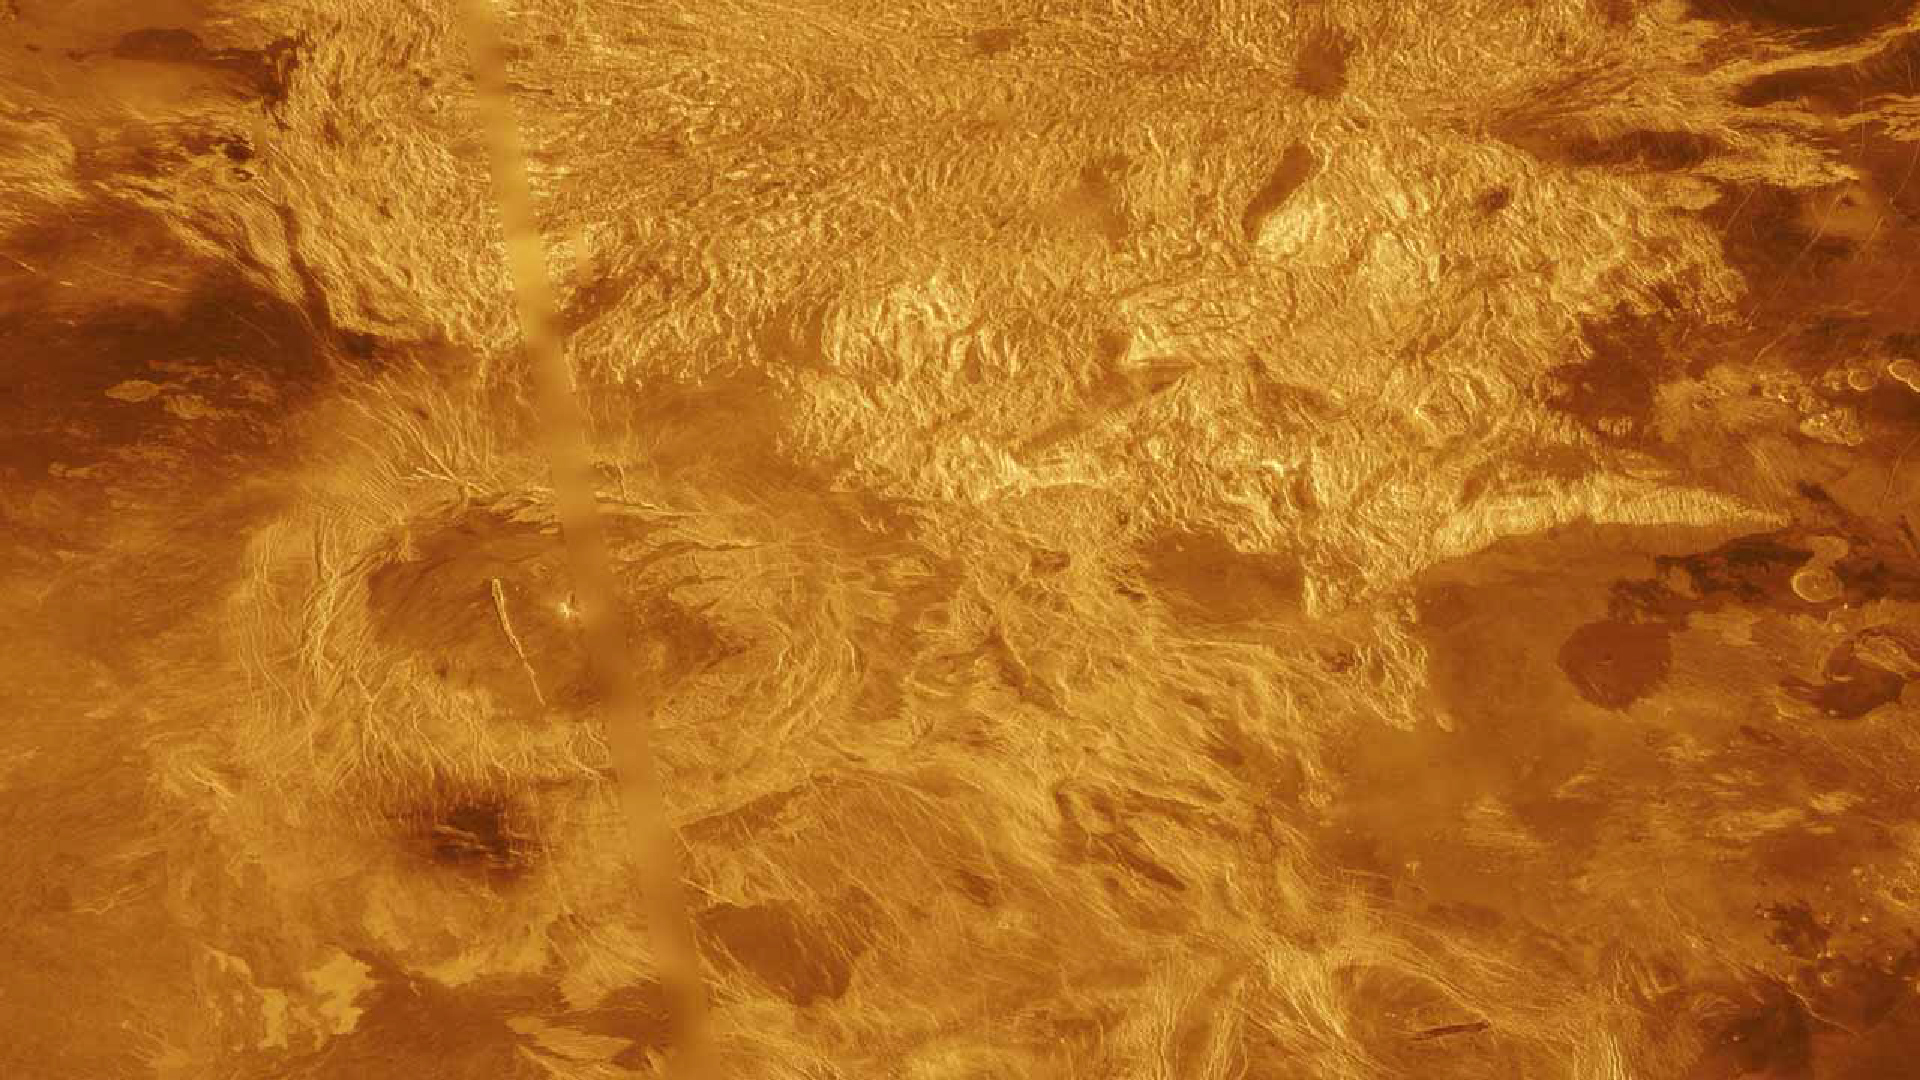
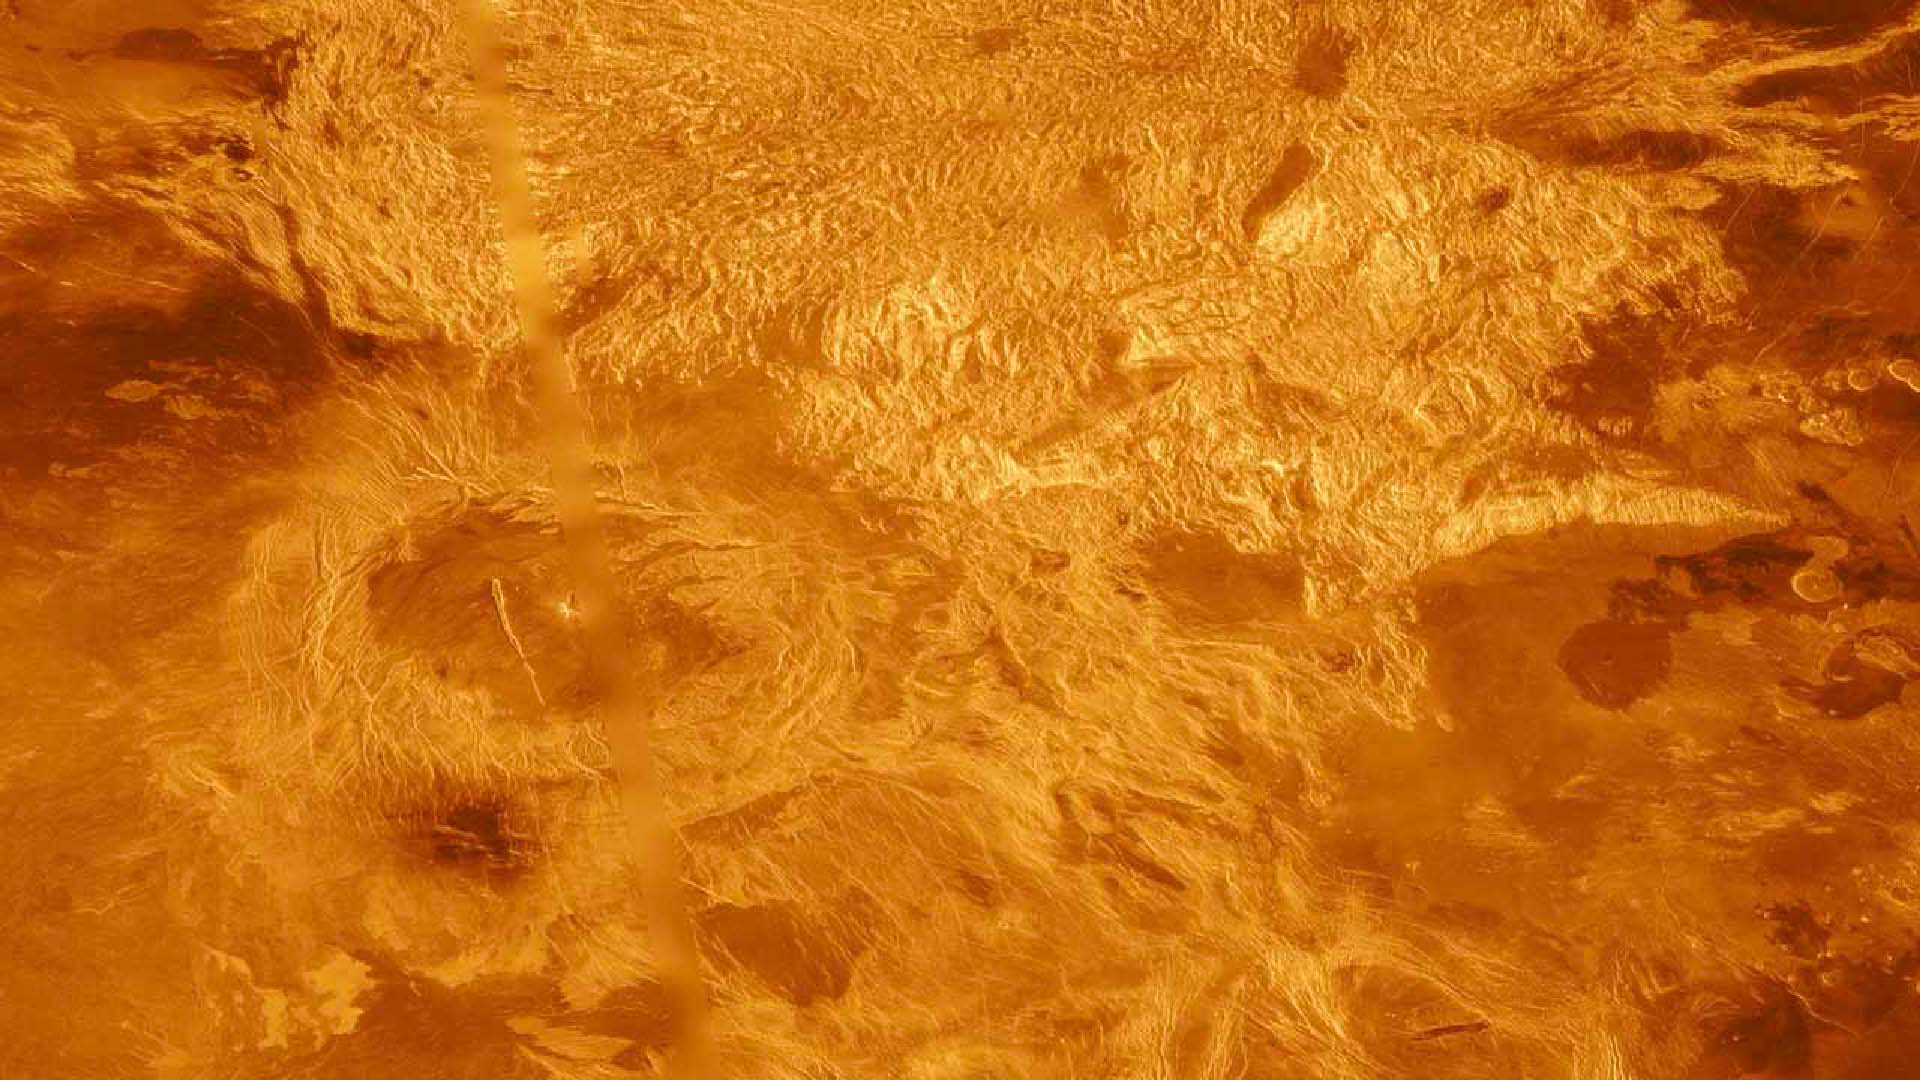
Reduced image size

diff --git a/index.html b/index.html
@@ -7,7 +7,7 @@
 		<meta name="viewport" content="width=device-width, initial-scale=1.0" />
 	</head>
 	<body>
-		<div class="screen" style="background-image: url('Links/main.gif')">
+		<div class="screen" style="background-image: url('Links/main.jpg')">
 			<div class="textc" style="background-color: rgba(51, 0, 204, 0.8);">
 				<div class="text" style="margin: 0 50px">solar system</div>
 			</div>
@@ -74,12 +74,12 @@
 			<div class="plank" style="background-color: rgba(0, 51, 51, 0.7)">
 			<p  style="color: #FFFFCC">The sixth planet from the Sun, Saturn is a gas-giant planet, it takes about 10.7 hours to rotate on its axis once—a Saturn “day”—and 29 Earth years to orbit the sun. <br><br>Saturn has 53 known moons with an additional 29 moons awaiting confirmation of their discovery—that is a total of 82 moons.<br>Saturn has the most spectacular ring system, with seven rings and several gaps and divisions between them.</p></div>
 		</div>
-		<div class="screen" style="background-image: url('Links/ur.png')">
+		<div class="screen" style="background-image: url('Links/ur.jpg')">
 			<div class="textc" style="background-color: rgba(0, 73, 71, 0.8);">
 				<div class="text" style="color: #CFFFFD">uranus</div>
 			</div>
 		</div>
-		<div class="screenhalf" style="background-image: url('Links/ur.png')">
+		<div class="screenhalf" style="background-image: url('Links/ur.jpg')">
 			<div class="plank" style="background-color: rgba(255, 255, 255, 0.7)">
 			<p  style="color: black">The seventh planet from the Sun, Uranus is an ice-giant planet and it was discovered in 1781 by William Herschel. It's the first planet found using a telescope. Uranus is known as the “sideways planet” because it rotates on its side.<br><br>It's four times larger than Earth, has 27 known moons, most of which are named after literary characters. Additionally, Uranus has rings.</p>
 			</div>
